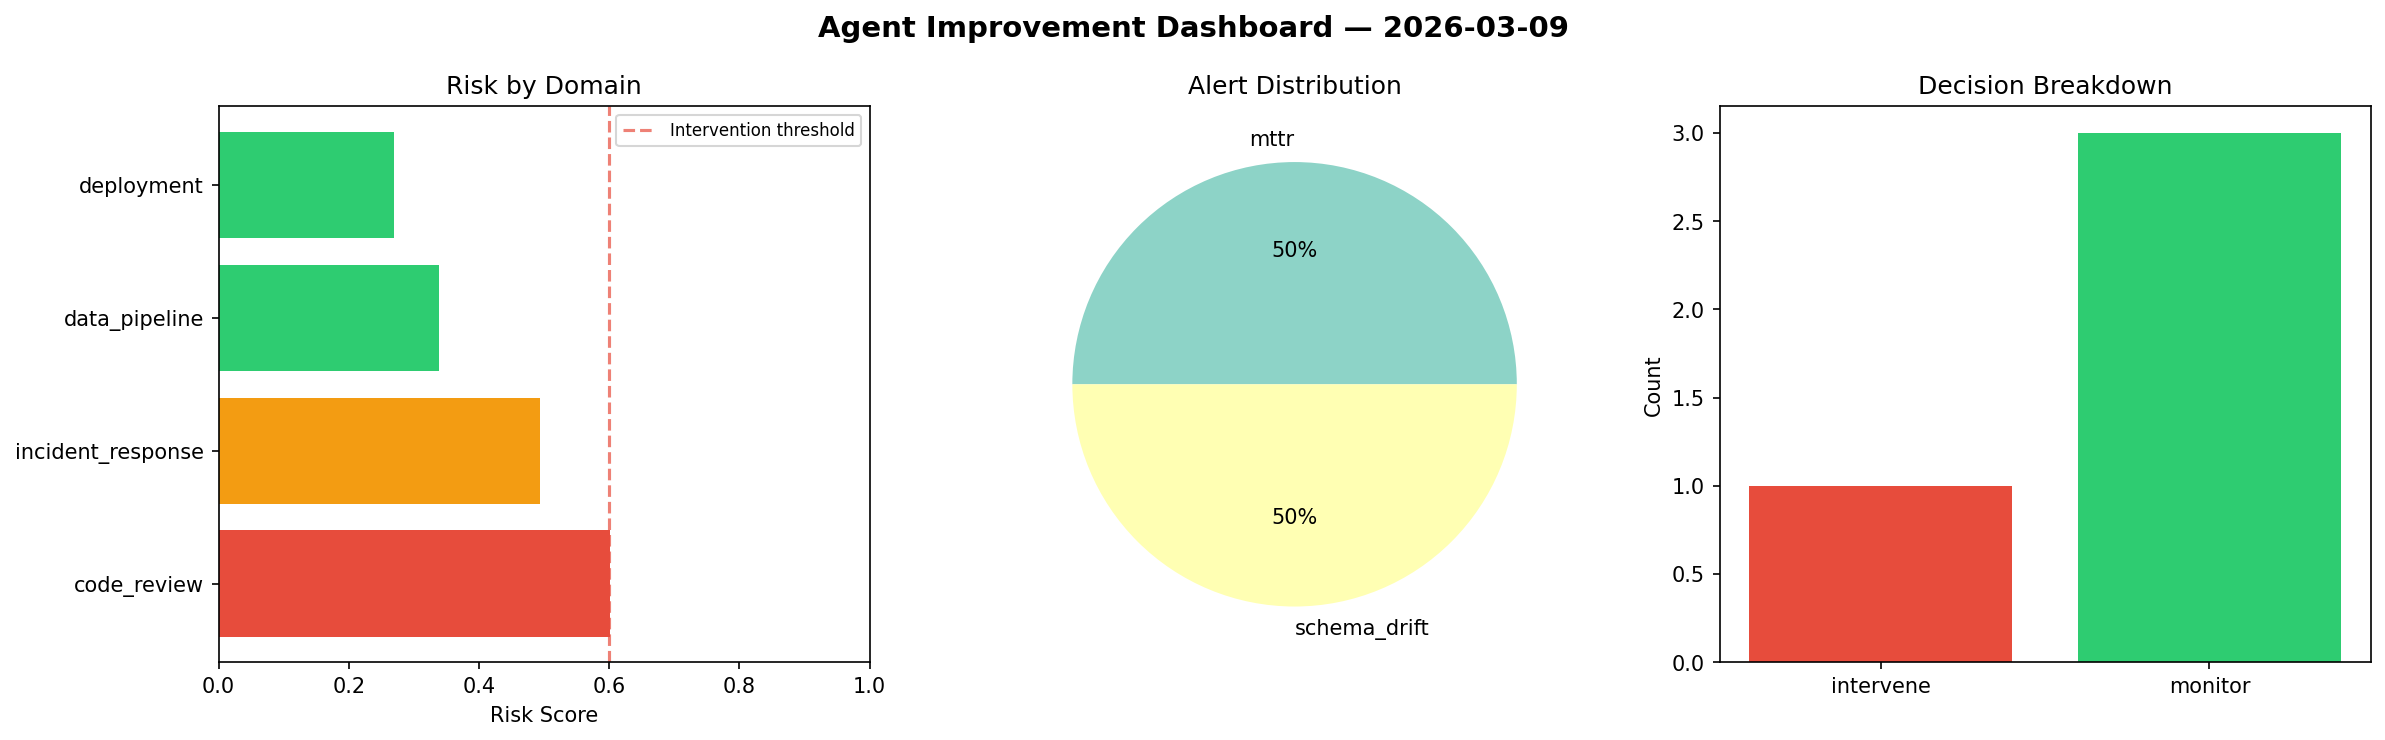
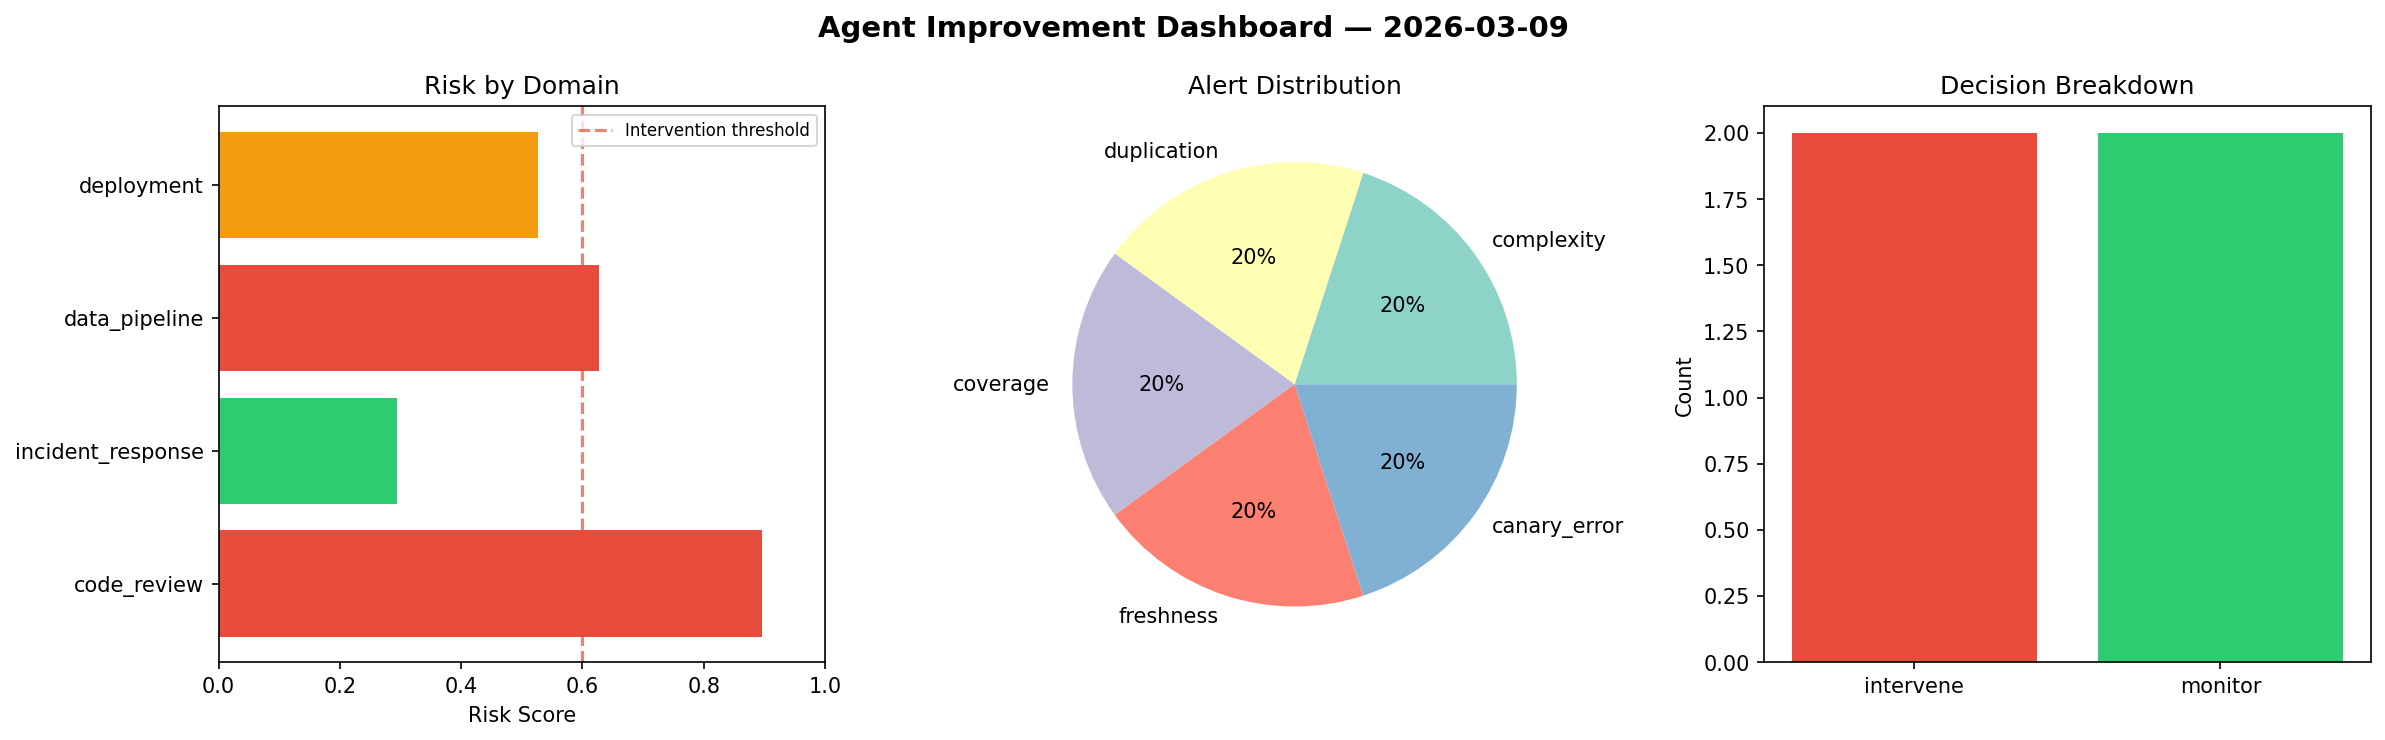
agent-improvement: daily cycle 2026-03-09T20:50

diff --git a/logs/2026-03-09.md b/logs/2026-03-09.md
@@ -1,6 +1,6 @@
 # Agent Improvement Report — 2026-03-09
 
-**Cycle ID:** `6ae48899` | **Avg Risk:** 0.4257 | **Interventions:** 1/4
+**Cycle ID:** `ba4d55c9` | **Avg Risk:** 0.5859 | **Interventions:** 2/4
 
 ![Dashboard](2026-03-09_dashboard.png)
 
@@ -10,18 +10,18 @@
 
 | Domain | Risk Score | Decision | Alerts |
 |--------|-----------|----------|--------|
-| code_review | 0.6011 | intervene | none |
-| incident_response | 0.494 | monitor | mttr |
-| data_pipeline | 0.3392 | monitor | schema_drift |
-| deployment | 0.2687 | monitor | none |
+| code_review | 0.8957 | intervene | complexity, duplication, coverage |
+| incident_response | 0.2941 | monitor | none |
+| data_pipeline | 0.6279 | intervene | freshness |
+| deployment | 0.5259 | monitor | canary_error |
 
 ## Delta vs Yesterday
 
 | Domain | Today | Yesterday | Change |
 |--------|-------|-----------|--------|
-| code_review | 0.6011 | 0.5646 | 📈 6.5% |
-| incident_response | 0.494 | 0.6039 | 📉 -18.2% |
-| data_pipeline | 0.3392 | 0.1742 | 📈 94.7% |
-| deployment | 0.2687 | 0.4296 | 📉 -37.5% |
+| code_review | 0.8957 | 0.5646 | 📈 58.6% |
+| incident_response | 0.2941 | 0.6039 | 📉 -51.3% |
+| data_pipeline | 0.6279 | 0.1742 | 📈 260.4% |
+| deployment | 0.5259 | 0.4296 | 📈 22.4% |
 
 **Refinement:** `{'adjustment': 'maintain', 'trend': 'improving', 'window': 4}`
